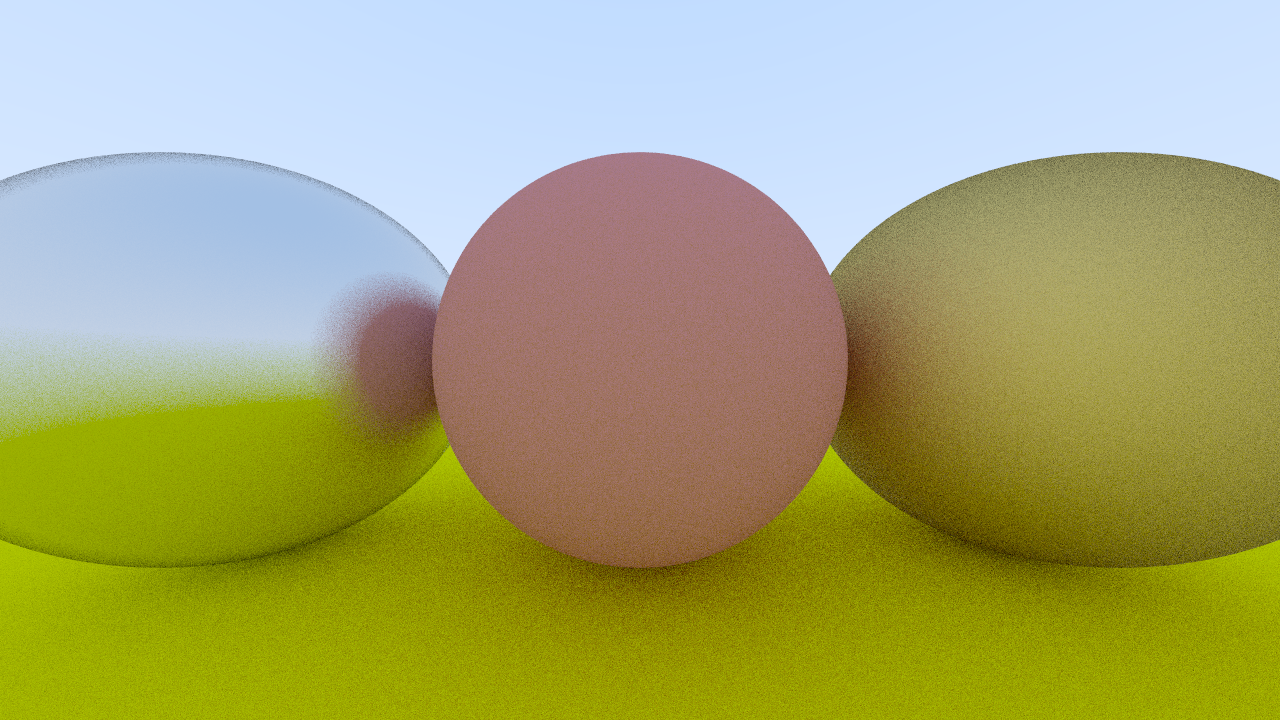
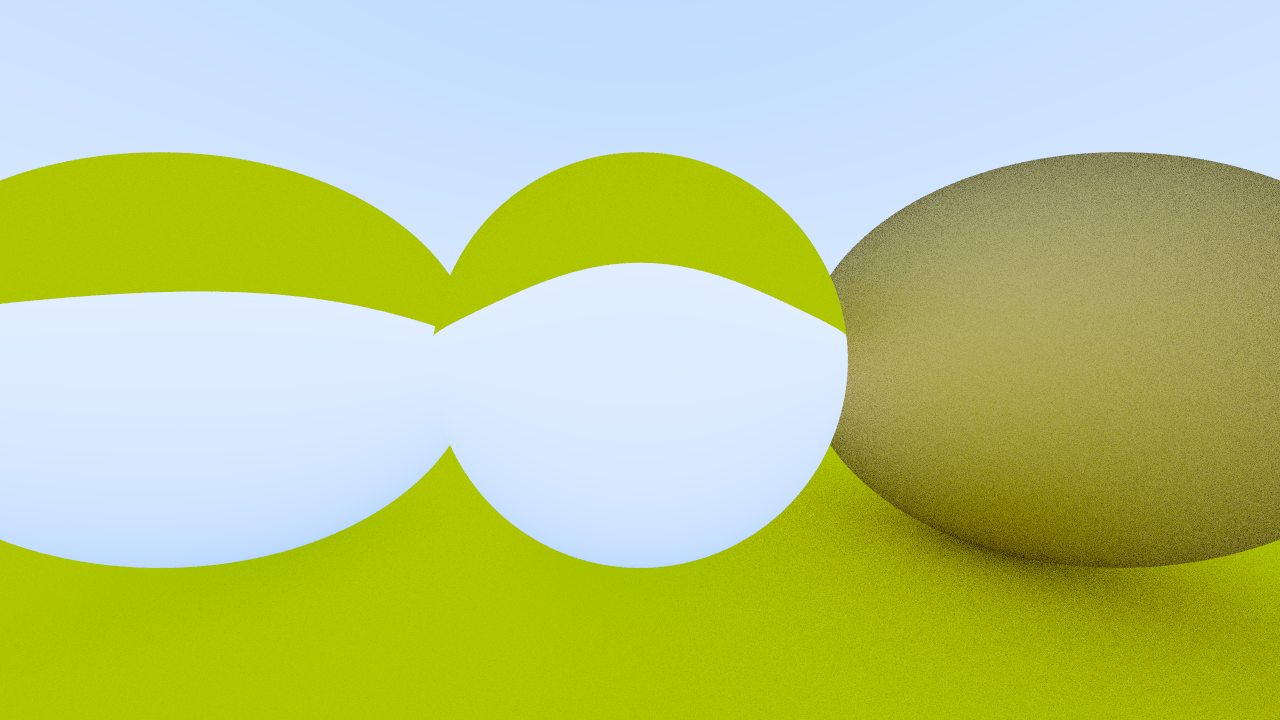
Added initial Dielectric material

diff --git a/Material.h b/Material.h
@@ -50,3 +50,22 @@ private:
 	Color albedo;
 	double fuzz;
 };
+
+class Dielectric : public Material {
+public:
+	Dielectric(double _IOR) : IOR(_IOR) {}
+
+	bool scatter(const Ray& inRay, const HitPoint& rec, Color& attenuation, Ray& outRay) const override {
+		attenuation = Color(1, 1, 1);
+		double refractionRatio = rec.isFrontFace ? (1.0 / IOR) : IOR;
+
+		Vec3 unitRayDir = inRay.direction.normalized();
+		Vec3 refractedDir = refract(unitRayDir, rec.normal, refractionRatio);
+
+		outRay = Ray(rec.position, refractedDir);
+		return true;
+	}
+
+private:
+	double IOR; // index of refraction
+};

diff --git a/main.cpp b/main.cpp
@@ -39,8 +39,8 @@ int main()
 	HittableList world;
 
 	auto materialGround = make_shared<Lambertian>(Color(0.8, 0.8, 0.0));
-	auto materialCenter = make_shared<Lambertian>(Color(0.7, 0.3, 0.3));
-	auto materialLeft = make_shared<Metal>(Color(0.8, 0.8, 0.8), 0.3);
+	auto materialCenter = make_shared<Dielectric>(1.5);
+	auto materialLeft = make_shared<Dielectric>(1.5);
 	auto materialRight = make_shared<Metal>(Color(0.8, 0.6, 0.2), 1.0);
 
 	world.add(make_shared<Sphere>(Point3(0.0, -100.5, -1.0), 100.0, materialGround));

diff --git a/Vec3.h b/Vec3.h
@@ -132,6 +132,13 @@ Vec3 reflect(const Vec3& v, const Vec3& n) {
     return v - 2 * dot(v, n) * n;
 }
 
+inline Vec3 refract(const Vec3& uv, const Vec3& n, double etai_over_etat) {
+    auto cos_theta = fmin(dot(-uv, n), 1.0);
+    Vec3 r_out_perp = etai_over_etat * (uv + cos_theta * n);
+    Vec3 r_out_parallel = -sqrt(fabs(1.0 - r_out_perp.lengthSquared())) * n;
+    return r_out_perp + r_out_parallel;
+}
+
 inline Vec3 RandomPointInsideUnitSphere() {
     Vec3 p;
 
